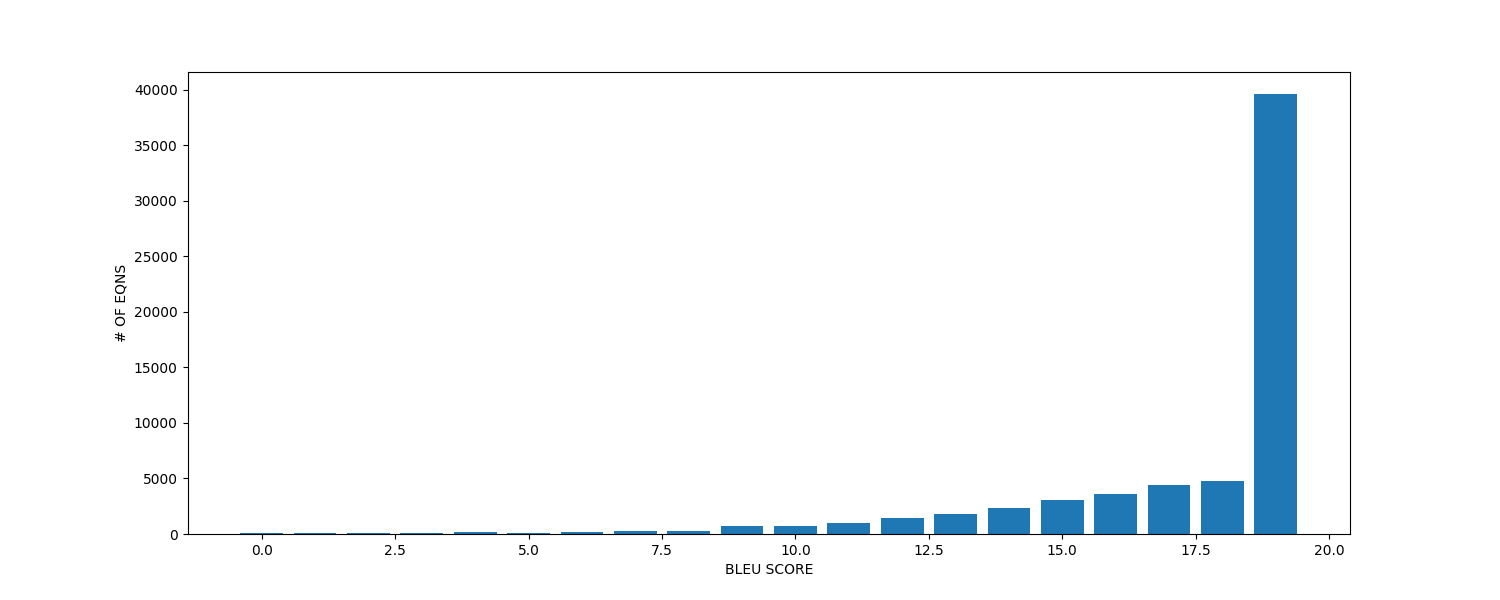
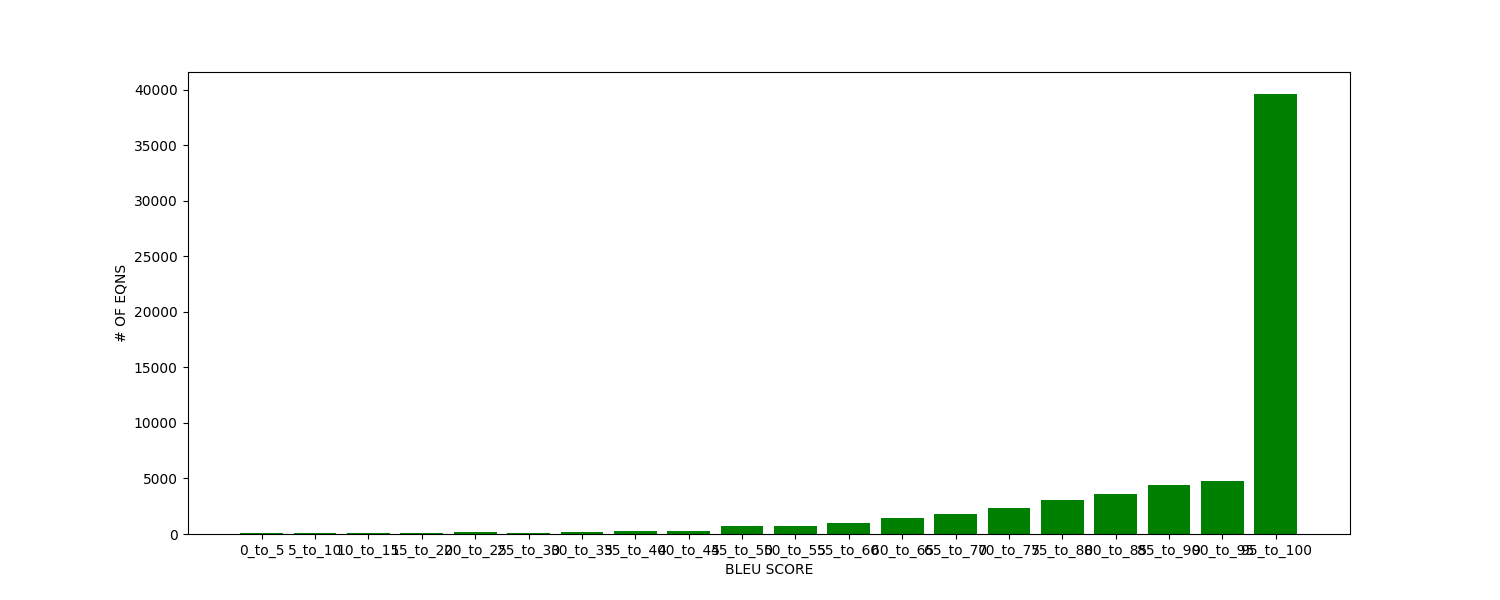
add

Changed region(s): [[0.1533, 0.15, 0.8893, 0.93]]

diff --git a/tt.py b/tt.py
@@ -16,7 +16,8 @@ while i <100:
 
 print(temp)
 plt.figure(figsize=(15,6))
-plt.bar(range(len(temp)), list(temp.values()), align='center')
+#plt.bar(range(len(temp)), list(temp.values()), align='center')
+plt.bar(temp.keys(), temp.values(), color='g')
 plt.xlabel('BLEU SCORE')
 plt.ylabel('# OF EQNS')
 plt.savefig('BLEU_distribution_1.png')
